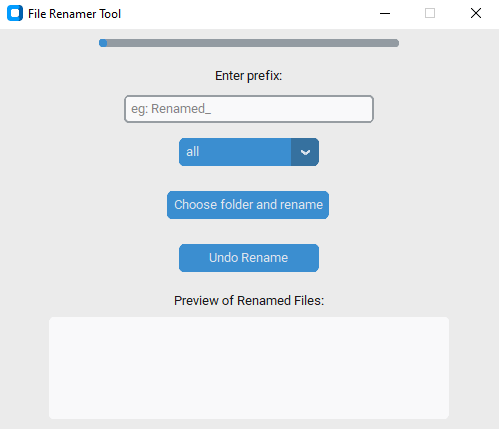
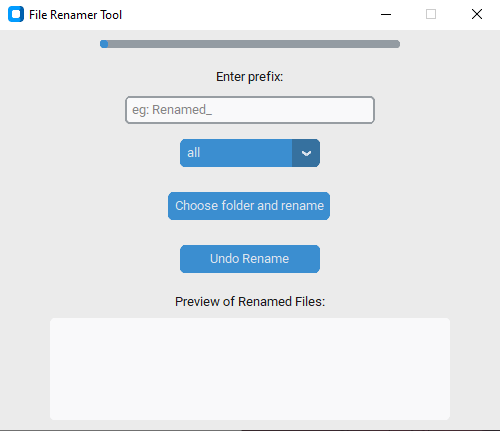
Fix screenshot display

diff --git a/dist/README.md b/dist/README.md
@@ -2,7 +2,7 @@
 
 A modern Python GUI tool that helps you **bulk rename files** in a folder with a custom prefix and timestamp. Built with `customtkinter`, it includes a live preview box, undo functionality, and a progress bar for a smooth user experience.
 
-![screenshot](screenshot/screenshot.PNG) 
+![screenshot](screenshot/screenshot.png) 
 ---
 
 ## ✨ Features
